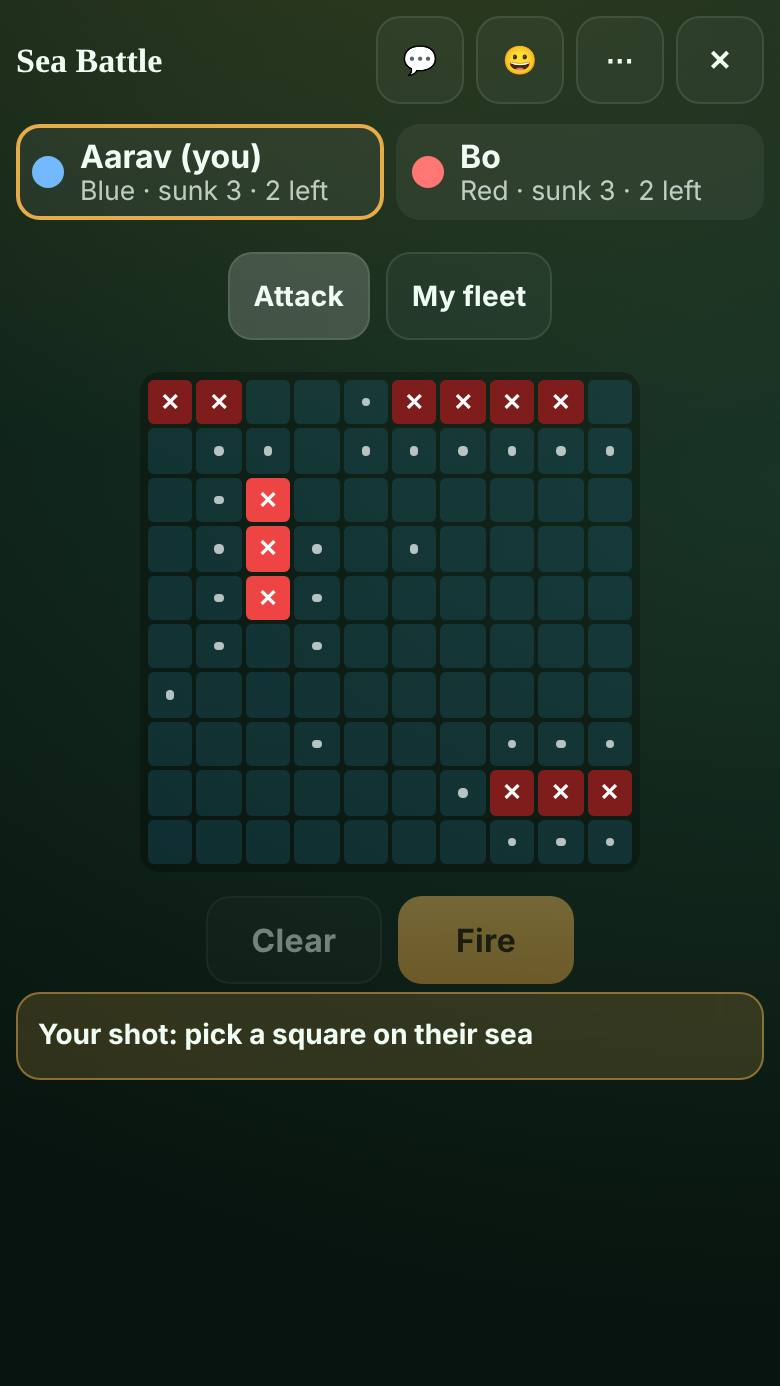
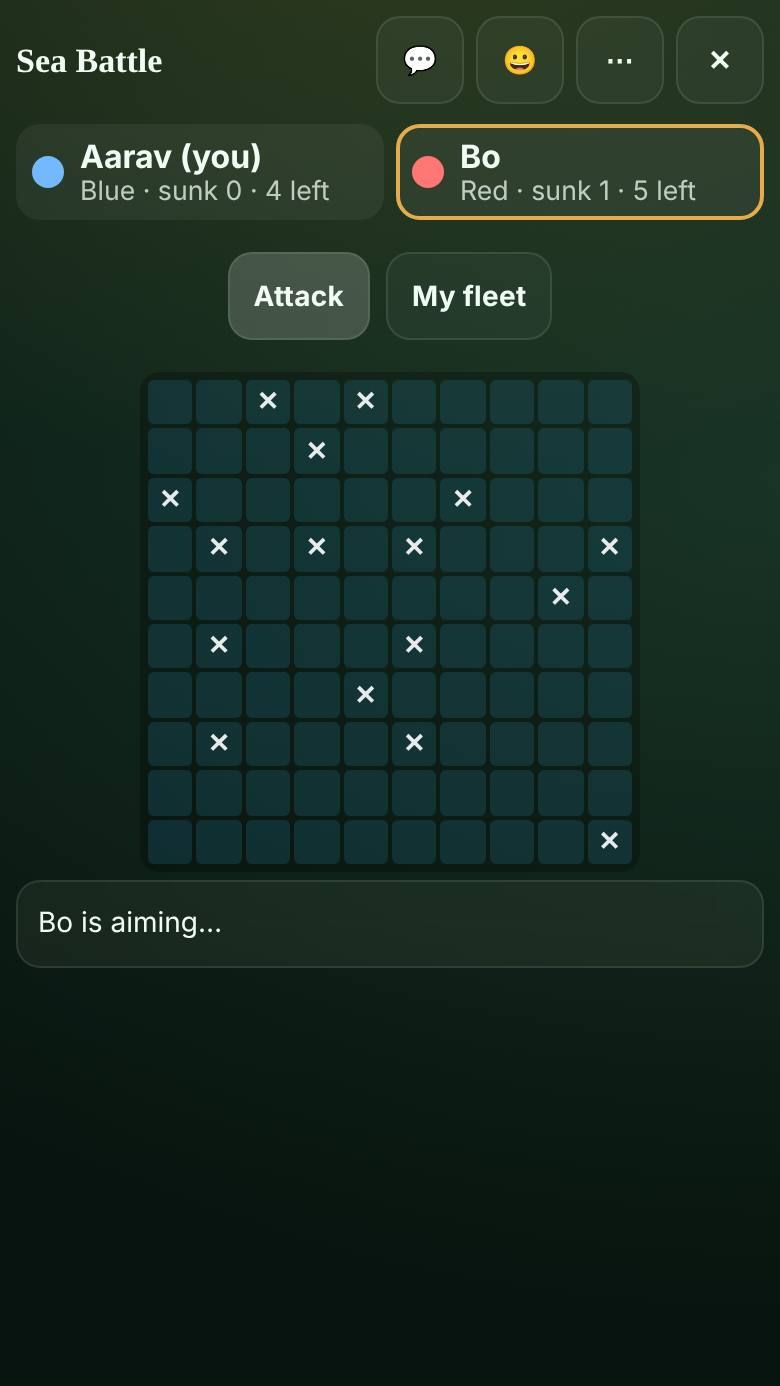
Audit fixes: Go Fish no longer says to draw a card at game over; how-to pictures for Sea Battle (tap to fire, no Clear or Fire buttons) and Carrom (new, from real footage)
Browser audit: every game was played to the end by bots and opened in the real front end. No page errors, no stray text,
a leave button in every table toolbar. The Go Fish end state still said "You draw one on your turn"; that is fixed.
Sea Battle's old pictures showed the removed buttons, so all five were taken again. Carrom had no how-to pictures; six
are now taken from real play.

Claude-Session: https://claude.ai/code/session_01Mdz7EyMaSRhnqZcHHmLtTg

diff --git a/public/howto/index.js b/public/howto/index.js
@@ -1,3 +1,3 @@
 // Generated by scripts/howto-index.js from public/howto/<game>/<card>.jpg: the real-footage pictures for the how-to cards.
 window.CardTable = window.CardTable || {};
-window.CardTable.howtoImages = {"bingo":[0,1,2,3,4],"chess":[0,1,2,3],"colorclash":[0,1,2,3,4,5],"dotsboxes":[0,1,2,3],"fallingblocks":[0,1,2,4],"fourinarow":[0,1,2],"gofish":[0,1,2,3,4,5],"hiddenminers":[0,1,2,3,4,5,6],"ludo":[0,1,2,3,4],"memorymatch":[0,1,2],"penaltyrows":[0,1,2,3,4,5,6],"poker":[0,1,2,3,4,5,6],"propertyrivals":[0,1,2,3,4,5],"seabattle":[0,1,2,3,4],"snakesladders":[0,1,2,3,4],"stagerummy":[0,1,2,3,4,5,6],"sudoku":[0,1,2,3,4,5],"themind":[0,1,2,3,4,5],"tictactoe":[0,1,2],"twentynine":[0,1,2,3,4,5,6],"wizard":[0,1,2,3,4]};
+window.CardTable.howtoImages = {"bingo":[0,1,2,3,4],"carrom":[0,1,2,3,4,5],"chess":[0,1,2,3],"colorclash":[0,1,2,3,4,5],"dotsboxes":[0,1,2,3],"fallingblocks":[0,1,2,4],"fourinarow":[0,1,2],"gofish":[0,1,2,3,4,5],"hiddenminers":[0,1,2,3,4,5,6],"ludo":[0,1,2,3,4],"memorymatch":[0,1,2],"penaltyrows":[0,1,2,3,4,5,6],"poker":[0,1,2,3,4,5,6],"propertyrivals":[0,1,2,3,4,5],"seabattle":[0,1,2,3,4],"snakesladders":[0,1,2,3,4],"stagerummy":[0,1,2,3,4,5,6],"sudoku":[0,1,2,3,4,5],"themind":[0,1,2,3,4,5],"tictactoe":[0,1,2],"twentynine":[0,1,2,3,4,5,6],"wizard":[0,1,2,3,4]};

diff --git a/public/games/gofish.js b/public/games/gofish.js
@@ -129,7 +129,8 @@
 
   function handHTML(v, z) {
     if (v.me < 0) return '';
-    if (!v.hand.length) return '<div class="gf-empty">You have no cards. You draw one on your turn.</div>';
+    // an empty hand is only waiting when the game goes on: at game over there is nothing to draw
+    if (!v.hand.length) return v.phase === 'gameOver' ? '' : '<div class="gf-empty">You have no cards. You draw one on your turn.</div>';
     const fresh = ui.prevHand;
     const can = new Set(v.askRanks);
     return `<div class="hand"><div class="hand-in" style="--cw:${z.cw}px">${v.hand.map((c, i) => {
